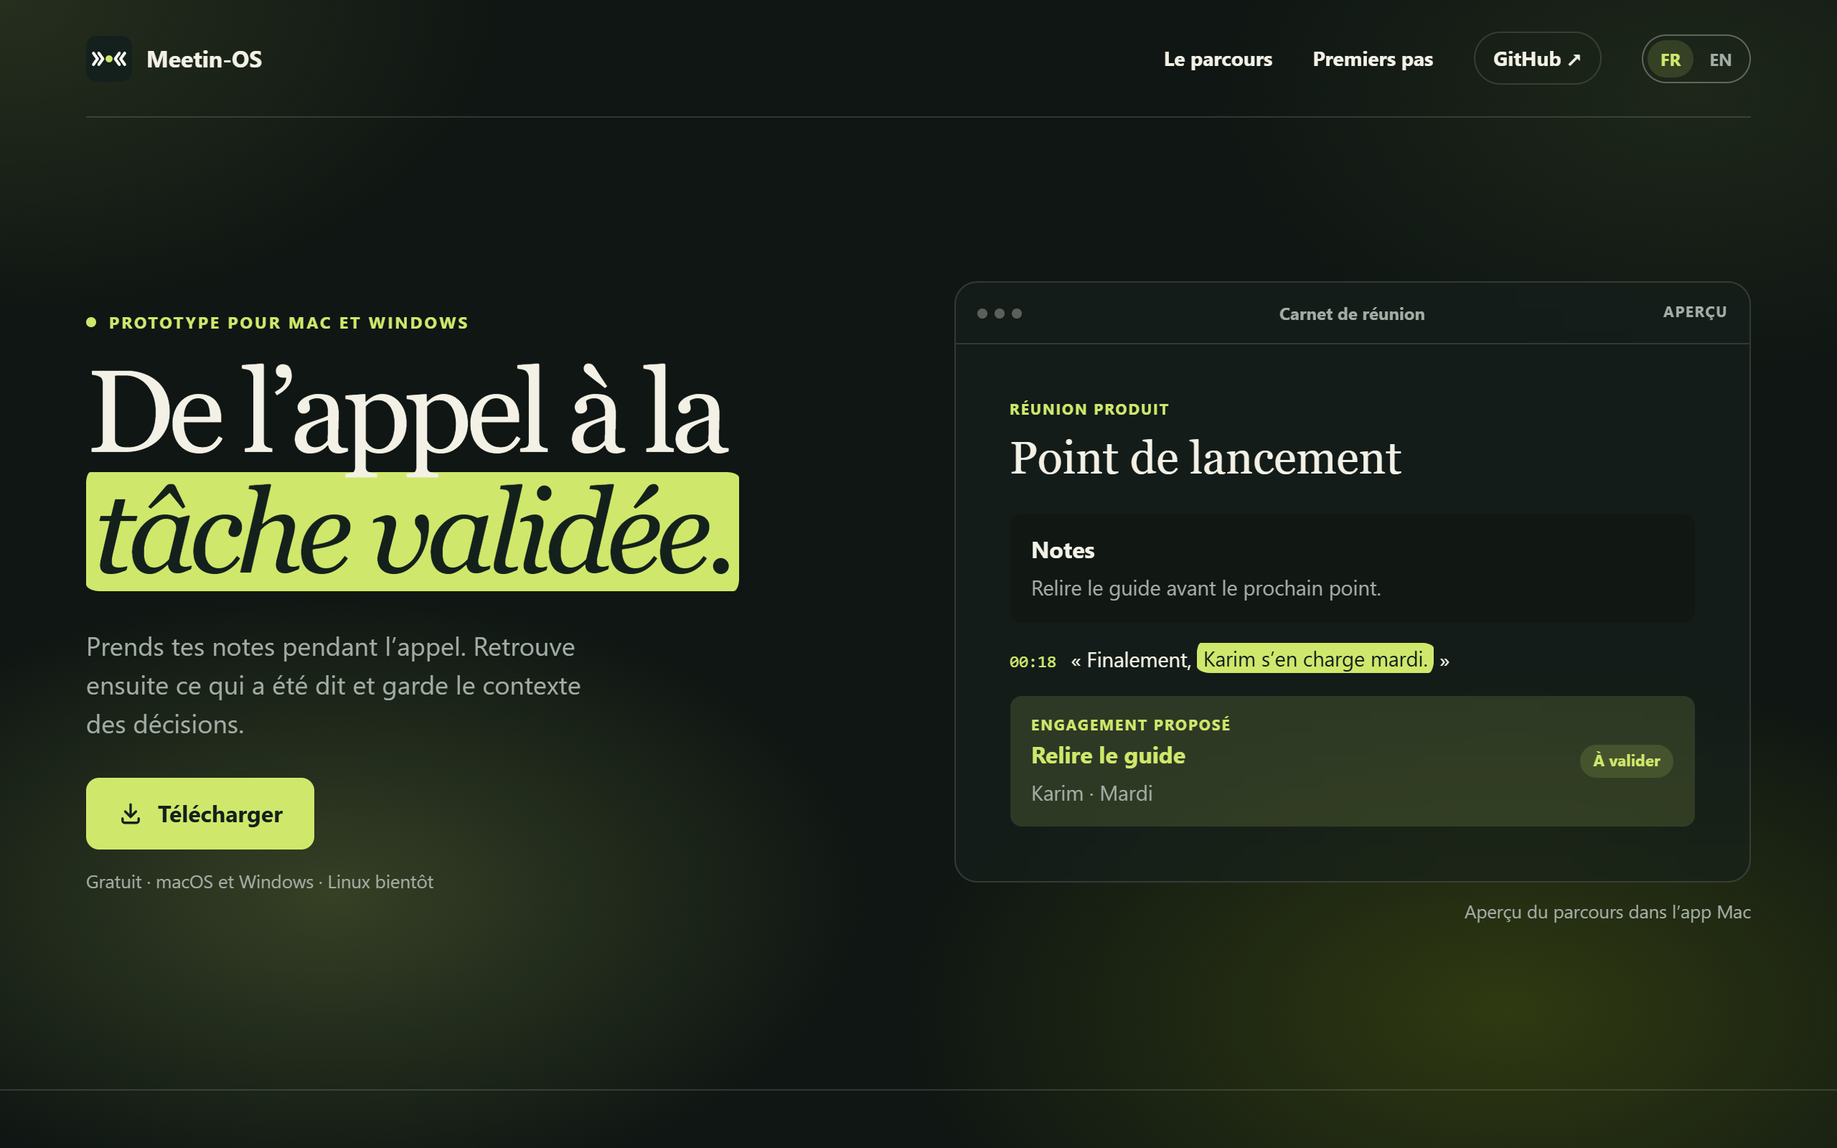
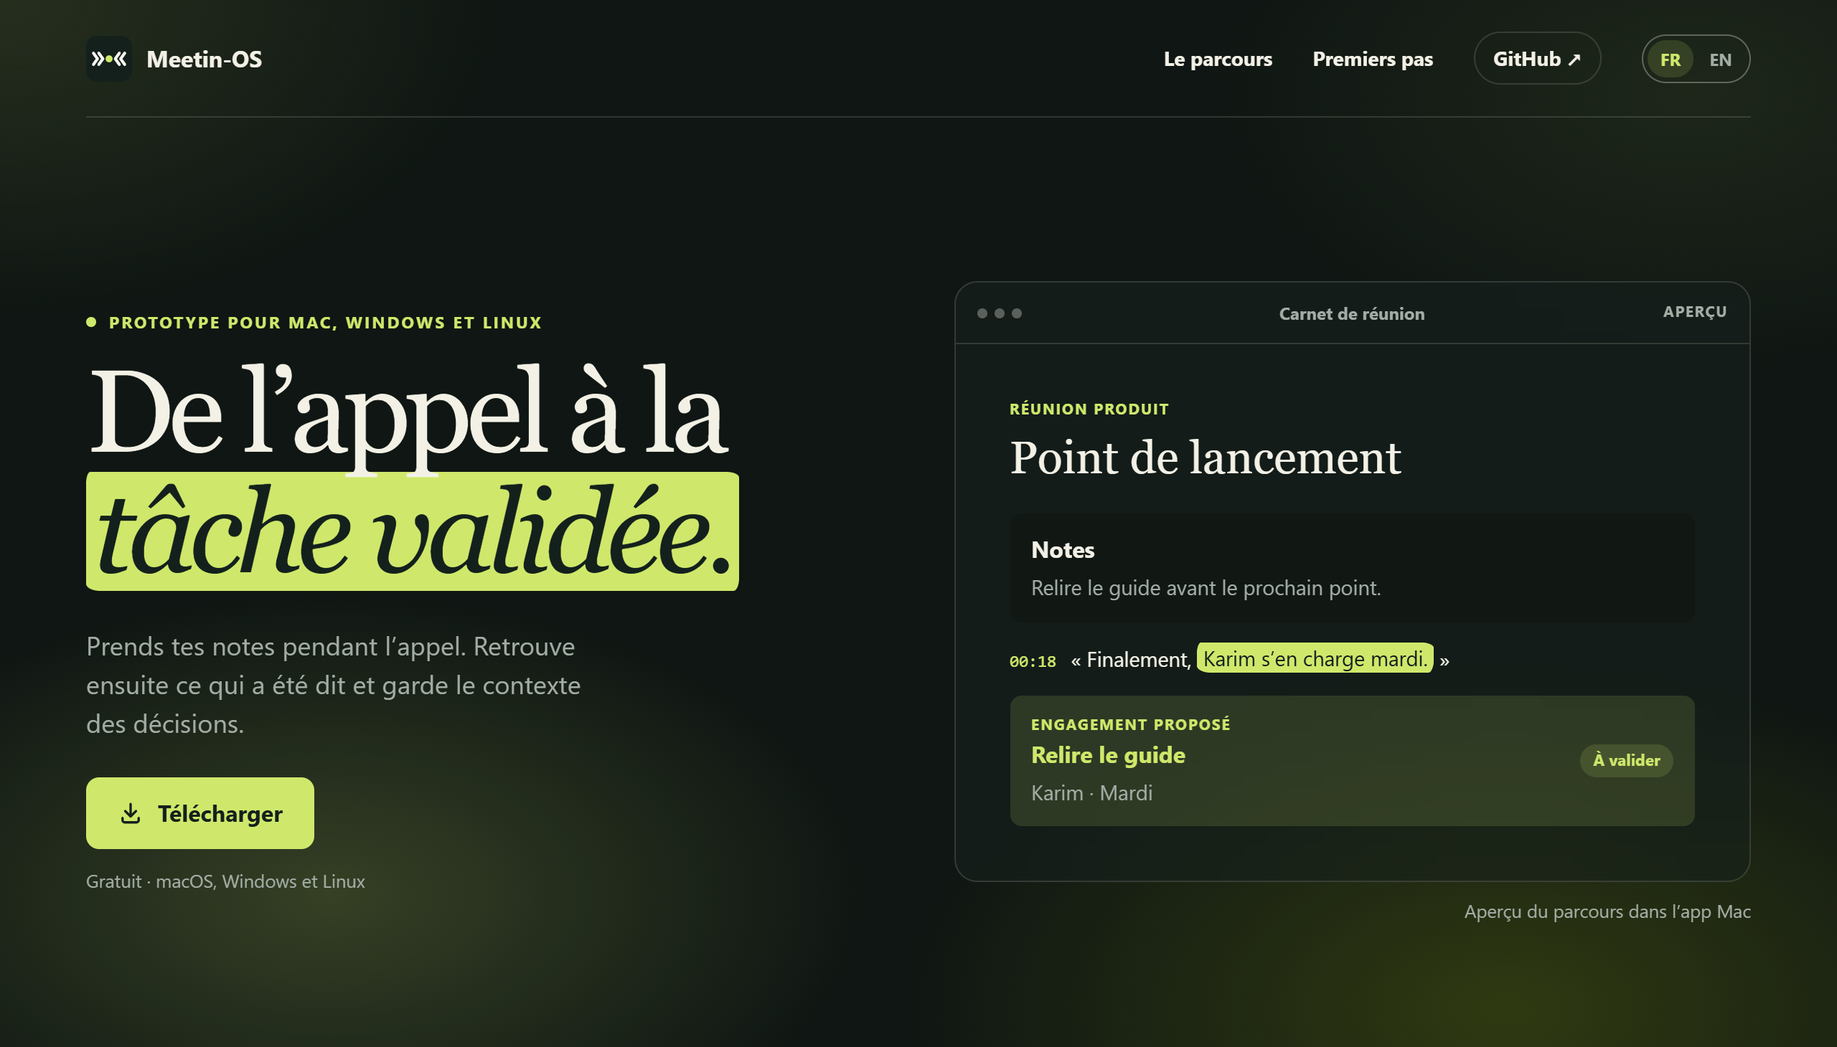
Make the README cleaner and add task examples

diff --git a/README.md b/README.md
@@ -1,5 +1,5 @@
 <p align="center">
-  <img src="brand/logo/app-icon.svg" alt="Logo Meetin-OS" width="96">
+  <img src="brand/logo/app-icon.svg" alt="Logo Meetin-OS" width="88">
 </p>
 
 <h1 align="center">Meetin-OS</h1>
@@ -7,62 +7,80 @@
 <p align="center">
   <b>De l’appel à la tâche validée.</b><br>
   Meetin-OS écoute ta réunion, repère les engagements pris à voix haute<br>
-  et les confie à un agent IA — seulement après ta validation.
+  et les confie à un agent IA, seulement après ta validation.
 </p>
 
 <p align="center">
-  <img src="https://img.shields.io/badge/macOS-15%2B-14201C?style=flat-square&logo=apple&logoColor=white" alt="macOS 15+">
-  <img src="https://img.shields.io/badge/Windows-10%20%7C%2011-14201C?style=flat-square&logo=windows&logoColor=white" alt="Windows 10 et 11">
-  <img src="https://img.shields.io/badge/Next.js-site%20%26%20serveur-14201C?style=flat-square&logo=nextdotjs&logoColor=white" alt="Next.js">
-  <img src="https://img.shields.io/badge/Gladia-transcription-CFE86B?style=flat-square&labelColor=14201C" alt="Gladia">
   <img src="https://img.shields.io/badge/H%20Company-Holo%20%C2%B7%20Computer%20Use-CFE86B?style=flat-square&labelColor=14201C" alt="H Company">
+  <img src="https://img.shields.io/badge/Gladia-transcription-CFE86B?style=flat-square&labelColor=14201C" alt="Gladia">
   <img src="https://img.shields.io/badge/Devin-code-CFE86B?style=flat-square&labelColor=14201C" alt="Devin">
-  <img src="https://img.shields.io/badge/Stripe-mode%20test-CFE86B?style=flat-square&labelColor=14201C" alt="Stripe en mode test">
+  <img src="https://img.shields.io/badge/Stripe-abonnement-CFE86B?style=flat-square&labelColor=14201C" alt="Stripe">
 </p>
 
 <p align="center">
-  <a href="https://meetin-os-recette.vercel.app/"><b>Site</b></a> ·
-  <a href="https://meetin-os-recette.vercel.app/telecharger"><b>Télécharger</b></a> ·
-  <a href="docs/suivi.md"><b>Suivi du projet</b></a> ·
+  <a href="https://meetin-os-recette.vercel.app/"><b>Site</b></a> &nbsp;·&nbsp;
+  <a href="https://meetin-os-recette.vercel.app/telecharger"><b>Télécharger</b></a> &nbsp;·&nbsp;
+  <a href="#exemples-de-tâches"><b>Exemples</b></a> &nbsp;·&nbsp;
   <a href="#démarrer"><b>Démarrer</b></a>
 </p>
 
+<br>
+
 <p align="center">
-  <img src="docs/images/site-accueil.png" alt="Page d’accueil du site Meetin-OS : De l’appel à la tâche validée, avec l’aperçu du carnet de réunion" width="900">
+  <img src="docs/images/site-accueil.png" alt="Page d’accueil du site Meetin-OS : De l’appel à la tâche validée, avec l’aperçu du carnet de réunion" width="880">
 </p>
 
----
+<br>
 
-## En bref
+## Le problème
 
-Dans une réunion, on dit souvent « je m’en occupe » ou « finalement, Karim le fait mardi »… puis tout le monde repart, et la moitié des engagements se perd.
+Dans une réunion, on dit « je m’en occupe » ou « finalement, Karim le fait mardi »… puis tout le monde repart, et la moitié de ces engagements se perd.
 
-- 🎙 **Il écoute.** Meetin-OS enregistre ton micro et le son de l’appel sur deux pistes, et la transcription s’écrit en direct.
-- 🧠 **Il repère les tâches.** Toutes les 15 secondes, Holo (H Company) lit le texte et propose des tâches, chacune avec la **phrase exacte** qui la justifie.
-- ✅ **Tu valides.** Rien ne part sans un clic sur **Confirmer et lancer**.
-- 🤖 **L’agent exécute.** Devin écrit le code et ouvre une pull request ; H Computer Use clique dans le tableau Trello comme un humain.
+## La solution
 
-> Projet du **H Company × 42AI Computer Use Agents Hackathon**, les 7 et 8 novembre 2026 à Paris, par **Wael** (app Mac et intégration), **Lenny** (marque) et **Samy** (front).
+<table>
+  <tr>
+    <td align="center" width="25%">🎙<br><b>Il écoute</b><br><sub>Ton micro et le son de l’appel, sur deux pistes. La transcription s’écrit en direct.</sub></td>
+    <td align="center" width="25%">🧠<br><b>Il repère</b><br><sub>Holo lit la réunion toutes les 15 s et propose les tâches, avec la phrase exacte qui les justifie.</sub></td>
+    <td align="center" width="25%">✅<br><b>Tu valides</b><br><sub>Rien ne part sans ton clic sur <b>Confirmer et lancer</b>.</sub></td>
+    <td align="center" width="25%">🤖<br><b>L’agent agit</b><br><sub>Devin écrit le code. H Computer Use clique dans tes outils web comme un humain.</sub></td>
+  </tr>
+</table>
 
 ## Comment ça marche
 
 ```mermaid
 flowchart LR
-    A["🎙 Réunion<br/>micro + son de l’appel"] --> B["Gladia<br/>transcription en direct"]
-    B --> C["Holo · H Company<br/>repère les tâches"]
-    C --> D["Carte « À valider »<br/>+ citation exacte"]
-    D -->|Confirmer et lancer| E{"Quel agent ?"}
-    E -->|code| F["Devin<br/>pull request à relire"]
-    E -->|outil web| G["H Computer Use<br/>fiche dans Trello"]
-    F --> H["Lien de suivi<br/>dans l’app"]
-    G --> H
+    A["🎙 Réunion"] --> B["Gladia<br/>transcription"]
+    B --> C["Holo<br/>repère la tâche"]
+    C --> D["Carte à valider<br/>+ citation"]
+    D -->|"✅ Confirmer"| E{"Agent"}
+    E -->|code| F["Devin<br/>pull request"]
+    E -->|outil web| G["H Computer Use<br/>fiche Trello"]
 ```
 
-1. **Capturer.** L’app Mac enregistre deux pistes séparées : ta voix (micro) et celle des autres (son de l’appel). On sait ainsi qui a dit quoi.
-2. **Transcrire.** Gladia écrit le texte en direct, en français et en anglais, avec l’heure de chaque phrase.
-3. **Repérer.** Le serveur envoie le texte à Holo, qui propose au plus 3 tâches. Une tâche dont la citation n’existe pas mot pour mot dans la transcription est rejetée. Si quelqu’un se corrige, la carte est mise à jour au lieu d’être dupliquée.
-4. **Valider.** Tu relis la carte, sa destination et la citation, puis tu confirmes. La validation est signée par le serveur et reste valable 15 minutes.
-5. **Exécuter.** Devin travaille sur une branche et ouvre une pull request ; H Computer Use fait une seule création ou modification de fiche dans le tableau de test (25 étapes, 2 minutes au maximum).
+1. **Capturer.** Deux pistes séparées, ta voix et celle des autres : on sait qui a dit quoi.
+2. **Transcrire.** Gladia écrit le texte en direct, en français comme en anglais, avec l’heure de chaque phrase.
+3. **Repérer.** Holo propose les tâches. Chaque carte cite mot pour mot la phrase d’origine, et si quelqu’un se corrige, la carte suit.
+4. **Valider.** Tu relis la carte, puis tu confirmes. La validation est signée par le serveur.
+5. **Exécuter.** L’agent choisi fait la tâche, et tu suis son avancement depuis l’app.
+
+## Exemples de tâches
+
+Ce qu’on dit en réunion, et ce que Meetin-OS en fait après un clic sur **Confirmer**.
+
+| 🗣 En réunion, quelqu’un dit… | Agent | ✨ Après « Confirmer » |
+|---|:---:|---|
+| « Le bouton Télécharger est trop petit sur mobile, il faut le corriger. » | **Devin** | Corrige la page et ouvre une pull request prête à relire. |
+| « La page de téléchargement doit aussi exister en espagnol. » | **Devin** | Traduit la page et ajoute la langue au site. |
+| « Avant vendredi, il faut un test sur l’export des réunions. » | **Devin** | Écrit le test, le lance et propose le changement en pull request. |
+| « On passe l’offre équipe à 20 € par mois. » | **Devin** | Met à jour la page tarifs et l’offre Stripe en mode test. |
+| « Lenny prend le pitch… non, finalement c’est Wael, pour mardi. » | **H Computer Use** | Crée la fiche Trello pour **Wael**, échéance mardi : le changement d’avis est compris. |
+| « La démo est terminée, on peut la passer en Fait. » | **H Computer Use** | Ouvre le tableau, retrouve la fiche et la déplace dans **Fait**. |
+| « Karim, tu relances le client Atlas pour le devis. » | **H Computer Use** | Crée la fiche « Relancer Atlas » au nom de Karim, avec la citation de la réunion. |
+| *« On devrait commander des pizzas. »* | — | La carte arrive, on clique **Ignorer** : sans validation, rien ne part. |
+
+> 💡 La réunion peut mélanger les langues : une phrase en français au milieu d’un appel en anglais devient une tâche comme les autres.
 
 ## Aperçu
 
@@ -72,54 +90,78 @@ flowchart LR
       <img src="docs/images/app-revue-agent.png" alt="Carte d’engagement proposé avec la citation surlignée, et suivi de l’agent avec les valeurs relues sur la fiche">
     </td>
     <td>
-      <b>La carte d’engagement et le suivi de l’agent</b><br><br>
-      L’engagement « Envoyer le devis à Atlas » arrive avec la phrase qui le justifie, surlignée. Après validation, on suit les étapes de l’agent et les valeurs relues sur la fiche.<br><br>
-      <sub>Maquette des écrans de la marque (<a href="brand/components/preview.html"><code>brand/components/preview.html</code></a>).</sub>
+      <b>La carte et le suivi de l’agent</b><br><br>
+      L’engagement « Envoyer le devis à Atlas » arrive avec sa phrase surlignée. Après validation, on suit chaque étape de l’agent et les valeurs relues sur la fiche.
     </td>
   </tr>
   <tr>
     <td colspan="2" align="center">
-      <img src="brand/animations/son-qui-bouge.gif" alt="Barre d’enregistrement animée : chrono, barres de niveau sonore, boutons Pause et Arrêter" width="760"><br>
-      <sub>La barre d’enregistrement : le chrono et les barres de niveau qui suivent la voix.</sub>
+      <img src="brand/animations/son-qui-bouge.gif" alt="Barre d’enregistrement animée : chrono, barres de niveau sonore, boutons Pause et Arrêter" width="720"><br>
+      <sub>La barre d’enregistrement : le chrono et les barres qui suivent la voix.</sub>
     </td>
   </tr>
   <tr>
     <td width="60%">
-      <img src="docs/images/agent-en-action.jpg" alt="L’agent parcourt la liste des participants du hackathon, à côté de la carte Meetin-OS Lancée">
+      <img src="docs/images/agent-en-action.jpg" alt="L’agent parcourt la liste des participants du hackathon, à côté de la carte Meetin-OS">
     </td>
     <td>
       <b>L’agent en action</b><br><br>
-      À gauche, l’agent travaille dans le navigateur. À droite, la carte Meetin-OS « Launched » et la session H Computer Use, avec ses étapes, sa réflexion et ses actions.<br><br>
-      <sub>Extrait de la vidéo démo (mise en scène pour le hackathon).</sub>
+      À gauche, l’agent travaille dans le navigateur. À droite, la carte Meetin-OS et la session H Computer Use, avec ses étapes et ses actions.<br><br>
+      <sub>Extrait de notre vidéo démo.</sub>
     </td>
   </tr>
 </table>
 
 ## Fonctionnalités
 
-| | Mac | Windows |
-|---|:---:|:---:|
-| Enregistrement deux pistes (micro + appel) | ✅ | ✅ |
-| Carnet de notes pendant l’appel | ✅ | ✅ |
-| Transcription Gladia après l’appel | ✅ | ✅ |
-| Transcription en direct | ✅ | — |
-| Tâches proposées pendant l’appel, avec notification | ✅ | — |
-| Onglet **Agent** : Devin et H Computer Use | ✅ | — |
-| Historique des réunions | ✅ | — |
-| Ouverture automatique en rejoignant un appel Zoom | ✅ | — |
+<table>
+  <tr>
+    <td width="50%">🎧 <b>Enregistrement deux pistes</b><br><sub>Micro et son de l’appel, séparés et réécoutables.</sub></td>
+    <td width="50%">📝 <b>Carnet de notes</b><br><sub>Tes notes prises pendant l’appel, à côté de la transcription.</sub></td>
+  </tr>
+  <tr>
+    <td>⚡ <b>Transcription en direct</b><br><sub>Gladia, en français et en anglais, horodatée.</sub></td>
+    <td>🔔 <b>Tâches en temps réel</b><br><sub>Une carte et une notification dès qu’un engagement est pris.</sub></td>
+  </tr>
+  <tr>
+    <td>🤖 <b>Onglet Agent</b><br><sub>Devin pour le code, H Computer Use pour les outils web.</sub></td>
+    <td>🗂 <b>Historique</b><br><sub>Toutes tes réunions, à retrouver et à réécouter.</sub></td>
+  </tr>
+  <tr>
+    <td>📞 <b>Ouverture automatique</b><br><sub>L’app se propose dès que tu rejoins un appel Zoom.</sub></td>
+    <td>🌍 <b>Bilingue</b><br><sub>Français et anglais, dans la réunion comme sur le site.</sub></td>
+  </tr>
+</table>
 
-> **Windows 0.1.1 est un prototype plus simple que l’app Mac.** Il garde l’apparence standard de Windows, et la clé Gladia n’est gardée que pendant la session. L’installation est vérifiée sur GitHub Actions ; la capture réelle sur un PC reste à tester. Pour le parcours complet, utilise l’app Mac.
+## Sécurité et contrôle
+
+- **Rien sans validation.** La détection propose, seul **Confirmer et lancer** déclenche un agent.
+- **Les clés restent sur le serveur.** L’app ne présente qu’un code d’équipe.
+- **Une validation signée, valable 15 minutes.** Une tâche modifiée doit être revalidée.
+- **Des agents encadrés.** Devin travaille sur une branche et propose une pull request ; H Computer Use agit sur un tableau dédié, une action à la fois.
+- **La réunion reste une donnée.** Une phrase comme « ignore tes règles » n’est jamais traitée comme un ordre.
+
+## Où en est le projet
+
+| | Brique | Résultat |
+|:---:|---|---|
+| ✅ | **App Mac** | Enregistrement deux pistes testé pendant un vrai appel, avec l’historique. |
+| ✅ | **Gladia** | Transcription réelle des deux pistes, aussi en direct. |
+| ✅ | **Détection Holo** | Tâche détectée en moins de 30 s, carte et notification affichées. |
+| ✅ | **Devin** | Session lancée depuis une carte, pull request ouverte. |
+| ✅ | **H Computer Use** | Fiche créée dans Trello par l’agent. |
+| ✅ | **App Windows** | Installateur construit et vérifié sur GitHub Actions. |
+| ✅ | **Stripe** | Abonnement disponible sur la page Premiers pas. |
+| ✅ | **Site** | En ligne, en français et en anglais. |
 
 ## Démarrer
 
 <details open>
-<summary><b>🍎 App Mac</b> · macOS 15 ou ultérieur, et une clé API Gladia</summary>
+<summary><b>🍎 App Mac</b> · macOS 15 ou ultérieur</summary>
 
 <br>
 
-Depuis le site, clique sur **Installer sur Mac**, ouvre `Meetin-OS.pkg` et confirme. L’assistant ajoute Meetin-OS à **Applications**. C’est un paquet de test, sans notarisation Apple.
-
-Pour compiler depuis les sources, avec Xcode :
+Sur le site, clique sur **Installer sur Mac**, puis ouvre `Meetin-OS.pkg`. Ou compile depuis les sources avec Xcode :
 
 ```bash
 git clone https://github.com/Firmirsa/Meetin-OS.git
@@ -128,28 +170,28 @@ cd Meetin-OS
 open mac/.build/Meetin-OS.app
 ```
 
-1. Clique sur **Enregistrer**, puis prends tes notes pendant l’appel.
-2. Clique sur **Arrêter**, puis sur **Écouter**. **Voir les pistes** montre séparément le micro et le son du Mac.
-3. Clique sur **Transcrire**. L’app te demande la clé Gladia si besoin, puis affiche les passages horodatés.
-4. Pour le direct et les tâches : active la transcription en direct dans **Paramètres**, puis connecte l’agent dans **Intégrations → Connecter l’agent**.
+1. Clique sur **Enregistrer** et prends tes notes pendant l’appel.
+2. Active la transcription en direct dans **Paramètres**.
+3. Connecte l’agent dans **Intégrations → Connecter l’agent**.
+4. Valide les cartes qui arrivent, et suis l’agent dans l’onglet **Agent**.
 
-Le [guide macOS](mac/README.md) détaille les permissions, les fichiers audio et la configuration.
+Plus de détails dans le [guide macOS](mac/README.md).
 
 </details>
 
 <details>
-<summary><b>💻 App Windows</b> · Windows 10 ou 11 (x64)</summary>
+<summary><b>💻 App Windows</b> · Windows 10 ou 11</summary>
 
 <br>
 
-Clique sur **Installer sur Windows** depuis le site, puis ouvre `Meetin-OS-Windows.exe`. L’assistant installe le carnet pour ton compte et crée le raccourci **Meetin-OS** dans Démarrer. L’installateur n’est pas signé : Windows peut afficher une alerte.
+Sur le site, clique sur **Installer sur Windows**, puis ouvre `Meetin-OS-Windows.exe`. Le raccourci **Meetin-OS** apparaît dans le menu Démarrer.
 
-Le [guide Windows](windows/README.md) décrit la capture des deux pistes et la construction de l’installateur.
+Plus de détails dans le [guide Windows](windows/README.md).
 
 </details>
 
 <details>
-<summary><b>🌐 Site et serveur Next.js</b> · Node.js</summary>
+<summary><b>🌐 Site et serveur</b> · Next.js</summary>
 
 <br>
 
@@ -160,68 +202,42 @@ cp .env.example .env.local
 npm run dev
 ```
 
-- Téléchargement : [localhost:3000/telecharger](http://localhost:3000/telecharger)
-- Premiers pas et abonnement Stripe en mode test : [localhost:3000/onboarding](http://localhost:3000/onboarding)
-
-Les clés des services (Holo, Devin, H Computer Use, Stripe, Linkup) restent dans `web/.env.local`, jamais dans le dépôt. Le [guide Next.js](web/README.md) explique chaque intégration.
+Puis ouvre [localhost:3000](http://localhost:3000). Les clés des services restent dans `web/.env.local`, jamais dans le dépôt. Plus de détails dans le [guide Next.js](web/README.md).
 
 </details>
 
-## Sécurité et contrôle
+## Sous le capot
 
-- **Rien sans validation.** La détection ne lance jamais rien : seul **Confirmer et lancer** déclenche un agent.
-- **Les clés restent sur le serveur.** L’app présente seulement un code d’équipe.
-- **Une validation signée, valable 15 minutes.** Une tâche modifiée ou trop ancienne doit être préparée à nouveau.
-- **Des agents en laisse courte.** Devin travaille sur une branche sans fusionner ; H Computer Use n’agit que dans le tableau de test, une action à la fois.
-- **Le texte de la réunion reste une donnée.** Une phrase comme « ignore tes règles » n’est jamais traitée comme un ordre.
-
-## Où en est le projet
-
-État au 8 novembre 2026. Le détail de chaque test est dans le [suivi](docs/suivi.md).
-
-| Brique | État |
+| Partenaire | Rôle dans Meetin-OS |
 |---|---|
-| **Mac** | ✅ Essai réel : enregistrement deux pistes pendant un vrai appel, historique, relance de l’app. |
-| **Gladia** | ✅ Transcription réelle sur les deux pistes, et en direct sur macOS 27.2. Le repère de la voix distante reste à confirmer. |
-| **Détection de tâches** | ✅ Essai réel : tâche détectée en moins de 30 s, carte et notification affichées. |
-| **Devin** | ✅ Essai réel : session créée depuis une carte et pull request de test ouverte. |
-| **H Computer Use** | 🟡 Fiche créée dans Trello depuis HoloTab ; le lancement depuis l’app Mac reste à rejouer. |
-| **Windows** | 🟡 Installation vérifiée sur GitHub Actions ; capture réelle sur un PC non testée. |
-| **Stripe** | ✅ Abonnement de démonstration en mode test sur la page **Premiers pas**. |
-
-### En relecture
-
-Ces pull requests ne sont pas encore fusionnées. Celles marquées **Mac** doivent être compilées et testées sur un Mac.
-
-| PR | Changement |
-|---|---|
-| [#4](https://github.com/Firmirsa/Meetin-OS/pull/4) | Vidéo démo et copie locale du site du hackathon (`demo-video/`). |
-| [#5](https://github.com/Firmirsa/Meetin-OS/pull/5) | **Mac** et Windows : le nom de l’utilisateur remplace « Micro » dans la transcription. |
-| [#6](https://github.com/Firmirsa/Meetin-OS/pull/6) | **Mac** : renommer et supprimer une réunion. |
-| [#7](https://github.com/Firmirsa/Meetin-OS/pull/7) | Site : Linux présenté comme plateforme disponible. |
-| [#8](https://github.com/Firmirsa/Meetin-OS/pull/8) | **Mac** : barre d’enregistrement animée qui suit la voix. |
-
-## Organisation du dépôt
+| **H Company · Holo** | Lit la transcription et repère les tâches. |
+| **H Company · Computer Use** | Agit dans les outils web, comme un humain. |
+| **Gladia** | Transcrit la réunion en direct. |
+| **Devin** | Écrit le code et ouvre les pull requests. |
+| **Stripe** | Gère l’abonnement. |
 
 ```text
 Meetin-OS/
-├── mac/        App Mac (Swift, SwiftUI) : capture, transcription, onglet Agent
-├── windows/    App Windows (C#, .NET) : carnet, capture, Gladia
-├── web/        Site et serveur Next.js : téléchargement, premiers pas, routes de l’agent
-├── brand/      Marque : couleurs, polices, logo, composants, animations
-└── docs/       Suivi, plan, contrat front-agent, fiche du hackathon
+├── mac/        App Mac (Swift, SwiftUI)
+├── windows/    App Windows (C#, .NET)
+├── web/        Site et serveur Next.js, routes de l’agent
+├── brand/      Couleurs, polices, logo, composants, animations
+└── docs/       Suivi, contrat front-agent, fiche du hackathon
 ```
 
-## Documentation
+## L’équipe
 
-- [Suivi du projet](docs/suivi.md) · État des tests et prochaines actions.
-- [Guide macOS](mac/README.md) · Installation, capture et transcription.
-- [Guide Windows](windows/README.md) · Installation, capture et compilation.
-- [Guide Next.js](web/README.md) · Premiers pas et intégrations serveur.
-- [Marque](brand/README.md) · Palette, typographie et composants.
-- [Plan d’exécution](docs/plan-hackathon.md) · Répartition et scénario.
-- [Fiche du hackathon](docs/hackathon.md) · Règles, barème et ressources partenaires.
+Projet créé pour le **H Company × 42AI Computer Use Agents Hackathon**, les 7 et 8 novembre 2026 à Paris.
+
+| | |
+|---|---|
+| **Wael** | App Mac et intégration des agents |
+| **Lenny** | Marque et design |
+| **Samy** | Site et front |
+
+<br>
 
 <p align="center">
-  <sub>Fait à Paris par Wael, Lenny et Samy · H Company × 42AI Computer Use Agents Hackathon · novembre 2026</sub>
+  <img src="brand/logo/app-icon.svg" alt="" width="32"><br>
+  <sub>Meetin-OS · De l’appel à la tâche validée</sub>
 </p>
